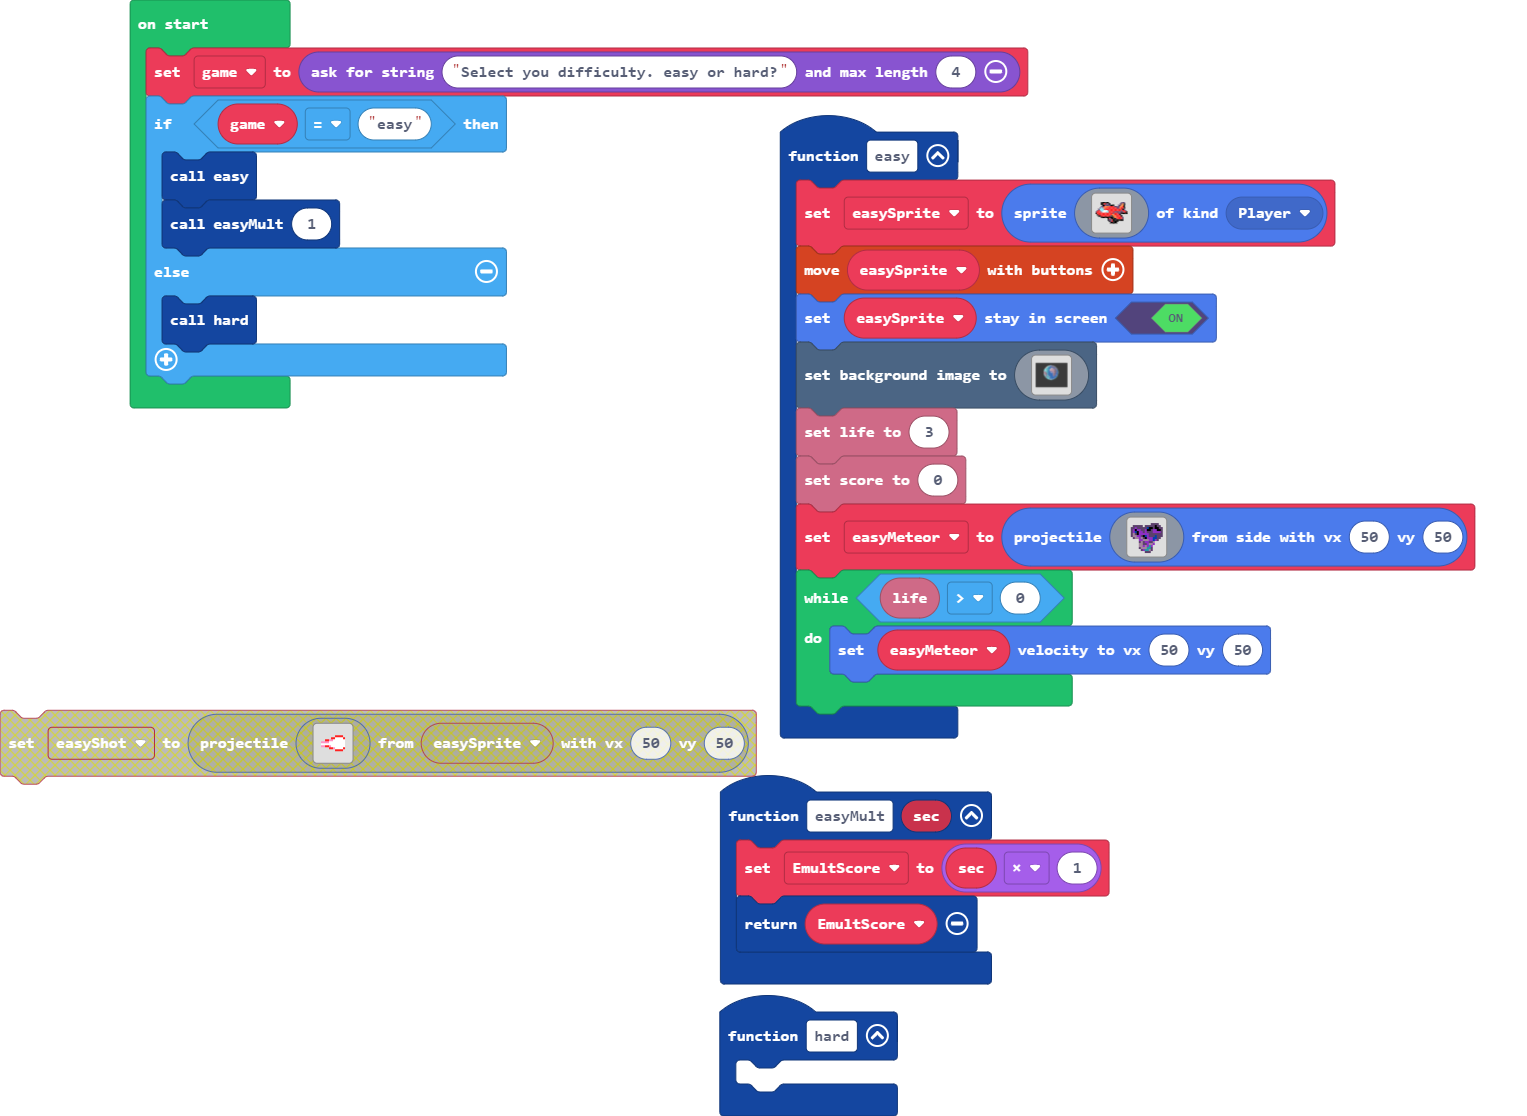
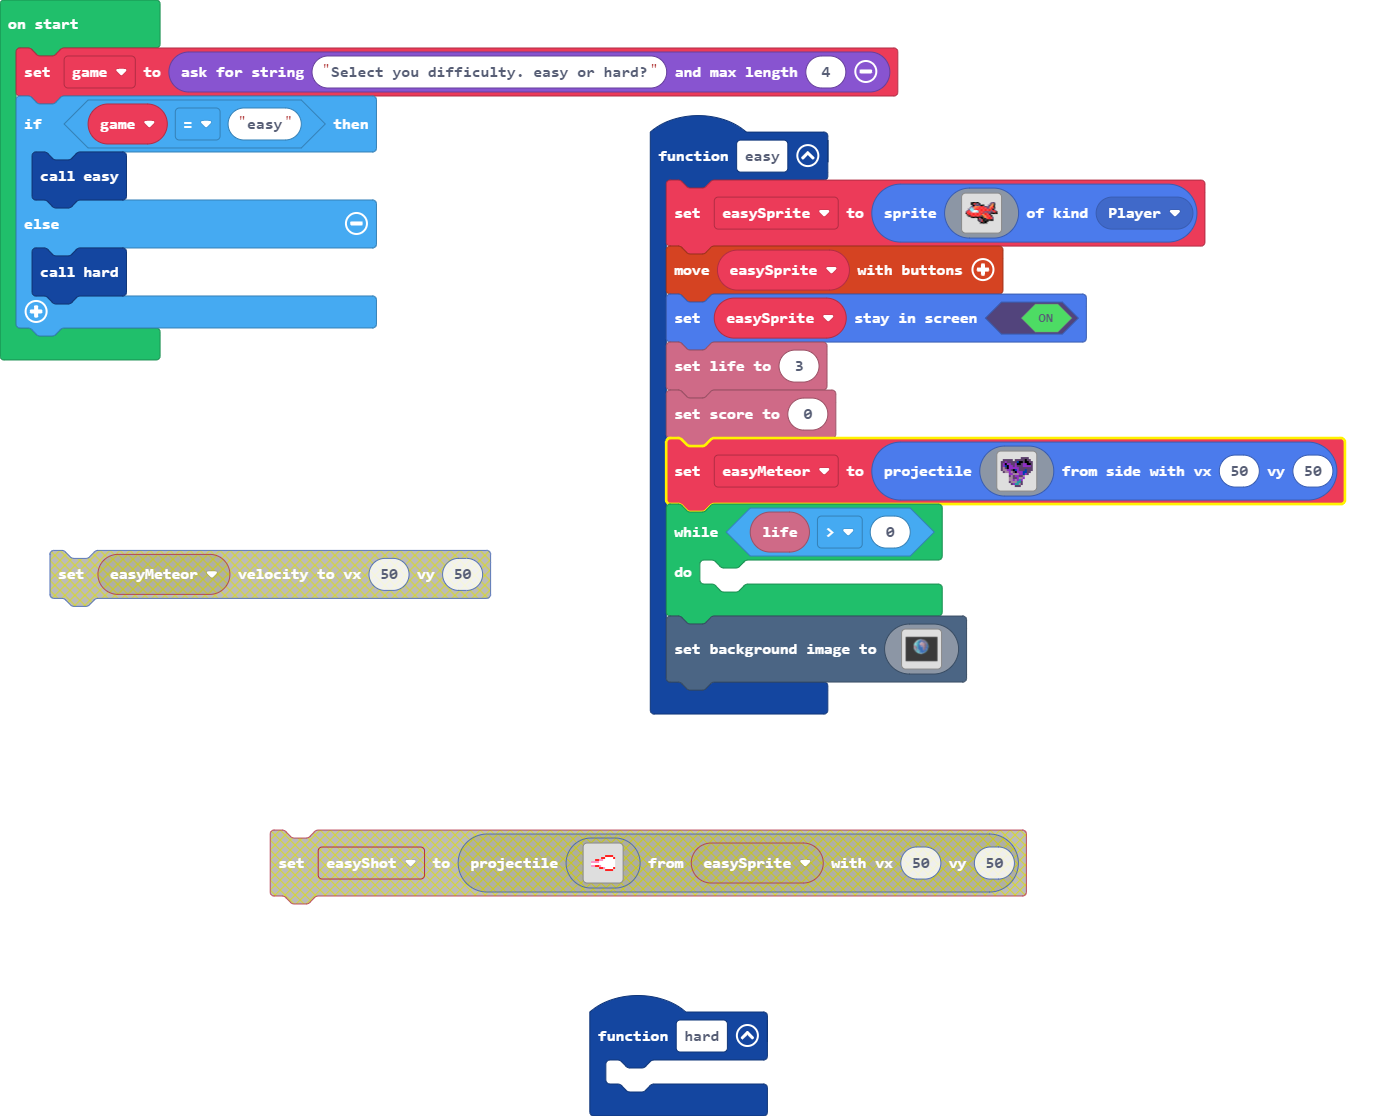
Update main.blocks, main.ts

diff --git a/main.ts b/main.ts
@@ -19,6 +19,29 @@ function easy () {
         `, SpriteKind.Player)
     controller.moveSprite(easySprite)
     easySprite.setStayInScreen(true)
+    info.setLife(3)
+    info.setScore(0)
+    easyMeteor = sprites.createProjectileFromSide(img`
+        . . . . . . . . . . . . . . . . 
+        . . . . . . . . . . c c c c . . 
+        . c c c c c . c c c c c f c c . 
+        c c a c c c c c 8 f f c f f c c 
+        c a f a a c c a f f c a a f f c 
+        c a 8 f a a c a c c c a a a a c 
+        c b c f a a a a a c c c c c c c 
+        c b b a a c f 8 a c c c 8 c c c 
+        . c b b a b c f a a a 8 8 c c . 
+        . . . . a a b b b a a 8 a c . . 
+        . . . . c b c a a c c b . . . . 
+        . . . . b b c c a b b a . . . . 
+        . . . . b b a b a 6 a . . . . . 
+        . . . . c b b b 6 6 c . . . . . 
+        . . . . . c a 6 6 b c . . . . . 
+        . . . . . . . c c c . . . . . . 
+        `, 50, 50)
+    while (info.life() > 0) {
+    	
+    }
     scene.setBackgroundImage(img`
         ffffffffffffffffffffffffffffffffffffffffffffffffffffffffffffffffffffffffffffffffffffffffffffffffffffffffffffffffffffffffffffffffffffffffffffffffffffffffffffffff
         ffffffffffffffffffffffffffffffffffffffffffffffffffffffffffffffffffffffffffffffffffffffffffffffffffffffffffffffffffffffffffffffffffffffffffffffffffffffffffffffff
@@ -141,44 +164,15 @@ function easy () {
         ffffffffffffffffffffffffffffffffffffffffffffffffffffffffffffffffffffffffffffffffffffffffffffffffffffffffffffffffffffffffffffffffffffffffffffffffffffffffffffffff
         ffffffffffffffffffffffffffffffffffffffffffffffffffffffffffffffffffffffffffffffffffffffffffffffffffffffffffffffffffffffffffffffffffffffffffffffffffffffffffffffff
         `)
-    info.setLife(3)
-    info.setScore(0)
-    easyMeteor = sprites.createProjectileFromSide(img`
-        . . . . . . . . . . . . . . . . 
-        . . . . . . . . . . c c c c . . 
-        . c c c c c . c c c c c f c c . 
-        c c a c c c c c 8 f f c f f c c 
-        c a f a a c c a f f c a a f f c 
-        c a 8 f a a c a c c c a a a a c 
-        c b c f a a a a a c c c c c c c 
-        c b b a a c f 8 a c c c 8 c c c 
-        . c b b a b c f a a a 8 8 c c . 
-        . . . . a a b b b a a 8 a c . . 
-        . . . . c b c a a c c b . . . . 
-        . . . . b b c c a b b a . . . . 
-        . . . . b b a b a 6 a . . . . . 
-        . . . . c b b b 6 6 c . . . . . 
-        . . . . . c a 6 6 b c . . . . . 
-        . . . . . . . c c c . . . . . . 
-        `, 50, 50)
-    while (info.life() > 0) {
-        easyMeteor.setVelocity(50, 50)
-    }
 }
 function hard () {
 	
 }
-function easyMult (sec: number) {
-    EmultScore = sec * 1
-    return EmultScore
-}
-let EmultScore = 0
 let easyMeteor: Sprite = null
 let easySprite: Sprite = null
 let game2 = game.askForString("Select you difficulty. easy or hard?", 4)
 if (game2 == "easy") {
     easy()
-    easyMult(1)
 } else {
     hard()
 }
